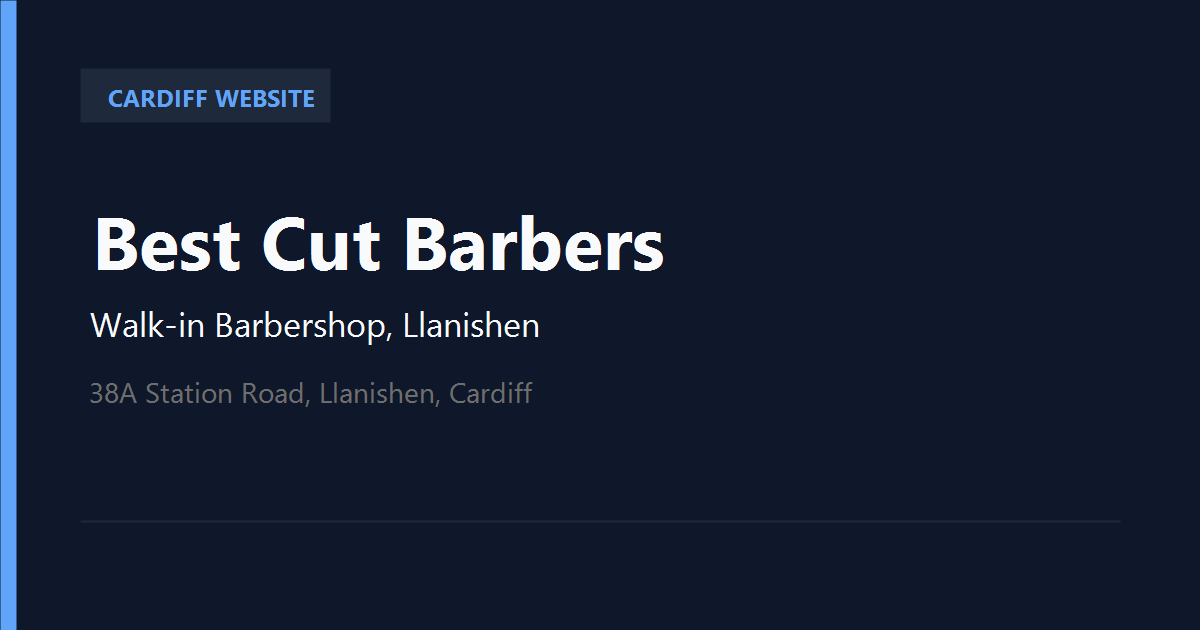
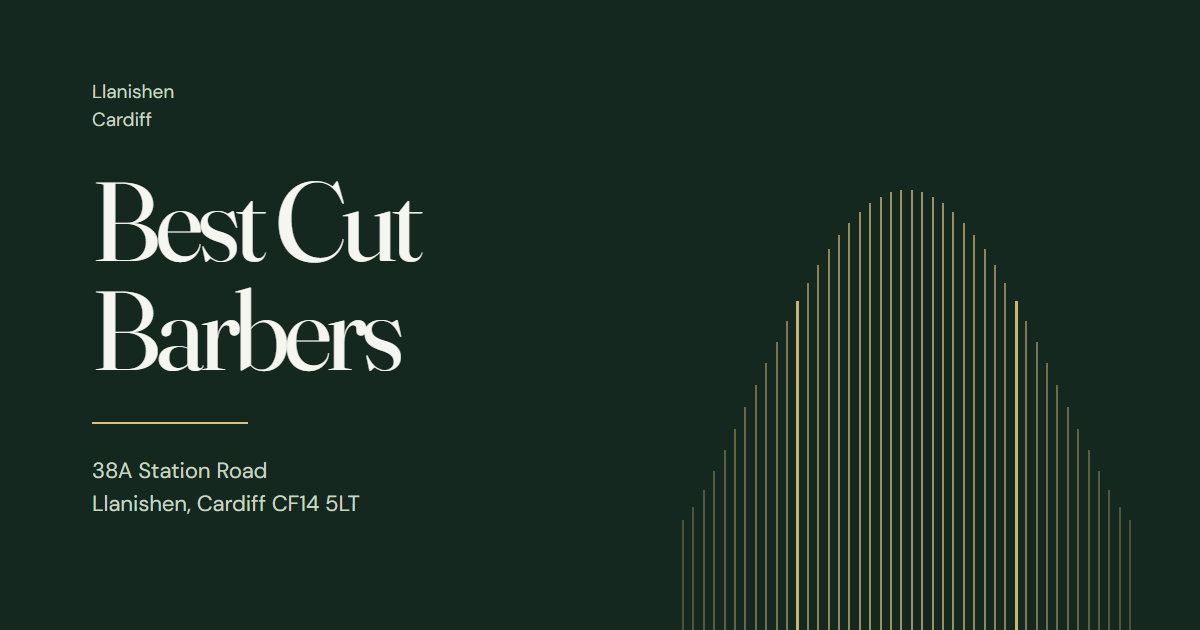
Harden CSP and structured data, refresh OG image
Aligns with security best practices: drops the unused data: image allowance, adds connect-src 'none', and links contactPoint to the real ContactPoint node. Two verifier guards prove each fix.

Also clips horizontal overflow, lets the display head wrap safely, and replaces the off-palette social image with a 1200x630 piece in the site's forest-green/brass identity (OG-DESIGN.md).

diff --git a/index.html b/index.html
@@ -1,5 +1,5 @@
-<!doctype html><html lang="en-GB"><head><meta charset="utf-8"><meta name="viewport" content="width=device-width,initial-scale=1"><meta http-equiv="Content-Security-Policy" content="default-src 'self'; script-src 'self'; style-src 'self'; img-src 'self' data:; base-uri 'none'; form-action 'none'; object-src 'none'"><title>Best Cut Barbers | Llanishen, Cardiff</title><meta name="description" content="Find Best Cut Barbers in Llanishen. Call about today’s availability, ask about your style, then head to Station Road."><meta name="theme-color" content="#f6f6f0">
-<link rel="manifest" href="site.webmanifest"><link rel="icon" href="favicon.svg" type="image/svg+xml"><link rel="canonical" href="https://henrygoldsmith07-wq.github.io/best-cut-barbers/"><meta property="og:type" content="website"><meta property="og:title" content="Best Cut Barbers"><meta property="og:description" content="Find Best Cut Barbers in Llanishen. Call about today’s availability, ask about your style, then head to Station Road."><meta property="og:url" content="https://henrygoldsmith07-wq.github.io/best-cut-barbers/"><meta property="og:image" content="https://henrygoldsmith07-wq.github.io/best-cut-barbers/og-image.png"><meta property="og:image:alt" content="Best Cut Barbers — 38A Station Road, Llanishen, Cardiff CF14 5LT"><meta name="twitter:card" content="summary_large_image"><script type="application/ld+json">{"@context":"https://schema.org","@type":"HairSalon","@id":"https://henrygoldsmith07-wq.github.io/best-cut-barbers/#business","name":"Best Cut Barbers","url":"https://henrygoldsmith07-wq.github.io/best-cut-barbers/","image":"https://henrygoldsmith07-wq.github.io/best-cut-barbers/og-image.png","telephone":"+447429478127","hasMap":"https://maps.google.com/?q=38A+Station+Road+Llanishen+Cardiff+CF14+5LT","areaServed":[{"@type":"Place","name":"Llanishen"},{"@type":"Place","name":"Cardiff"}],"address":{"@type":"PostalAddress","streetAddress":"38A Station Road","addressLocality":"Llanishen","addressRegion":"Cardiff","postalCode":"CF14 5LT","addressCountry":"GB"},"contactPoint":{"@id":"https://henrygoldsmith07-wq.github.io/best-cut-barbers/#business"},"hasOfferCatalog":{"@type":"OfferCatalog","name":"Barber services","itemListElement":[{"@type":"Offer","itemOffered":{"@type":"Service","name":"Haircut consultation"}},{"@type":"Offer","itemOffered":{"@type":"Service","name":"Beard grooming enquiry"}}]},"geo":{"@type":"GeoCoordinates","latitude":51.5290067,"longitude":-3.1883158},"openingHoursSpecification":[{"@type":"OpeningHoursSpecification","dayOfWeek":["Monday","Tuesday","Wednesday","Thursday","Friday","Saturday"],"opens":"09:00","closes":"18:00"},{"@type":"OpeningHoursSpecification","dayOfWeek":["Sunday"],"opens":"10:00","closes":"16:00"}]}</script><script src="app.js" defer></script><meta name="robots" content="noindex, nofollow"><script src="direction.js" defer></script><link rel="preload" href="assets/dm-sans.woff2" as="font" type="font/woff2" crossorigin>
+<!doctype html><html lang="en-GB"><head><meta charset="utf-8"><meta name="viewport" content="width=device-width,initial-scale=1"><meta http-equiv="Content-Security-Policy" content="default-src 'self'; script-src 'self'; style-src 'self'; img-src 'self'; connect-src 'none'; base-uri 'none'; form-action 'none'; object-src 'none'"><title>Best Cut Barbers | Llanishen, Cardiff</title><meta name="description" content="Find Best Cut Barbers in Llanishen. Call about today’s availability, ask about your style, then head to Station Road."><meta name="theme-color" content="#f6f6f0">
+<link rel="manifest" href="site.webmanifest"><link rel="icon" href="favicon.svg" type="image/svg+xml"><link rel="canonical" href="https://henrygoldsmith07-wq.github.io/best-cut-barbers/"><meta property="og:type" content="website"><meta property="og:title" content="Best Cut Barbers"><meta property="og:description" content="Find Best Cut Barbers in Llanishen. Call about today’s availability, ask about your style, then head to Station Road."><meta property="og:url" content="https://henrygoldsmith07-wq.github.io/best-cut-barbers/"><meta property="og:image" content="https://henrygoldsmith07-wq.github.io/best-cut-barbers/og-image.png"><meta property="og:image:alt" content="Best Cut Barbers — 38A Station Road, Llanishen, Cardiff CF14 5LT"><meta name="twitter:card" content="summary_large_image"><script type="application/ld+json">{"@context":"https://schema.org","@type":"HairSalon","@id":"https://henrygoldsmith07-wq.github.io/best-cut-barbers/#business","name":"Best Cut Barbers","url":"https://henrygoldsmith07-wq.github.io/best-cut-barbers/","image":"https://henrygoldsmith07-wq.github.io/best-cut-barbers/og-image.png","telephone":"+447429478127","hasMap":"https://maps.google.com/?q=38A+Station+Road+Llanishen+Cardiff+CF14+5LT","areaServed":[{"@type":"Place","name":"Llanishen"},{"@type":"Place","name":"Cardiff"}],"address":{"@type":"PostalAddress","streetAddress":"38A Station Road","addressLocality":"Llanishen","addressRegion":"Cardiff","postalCode":"CF14 5LT","addressCountry":"GB"},"contactPoint":{"@id":"https://henrygoldsmith07-wq.github.io/best-cut-barbers/#contact-point"},"hasOfferCatalog":{"@type":"OfferCatalog","name":"Barber services","itemListElement":[{"@type":"Offer","itemOffered":{"@type":"Service","name":"Haircut consultation"}},{"@type":"Offer","itemOffered":{"@type":"Service","name":"Beard grooming enquiry"}}]},"geo":{"@type":"GeoCoordinates","latitude":51.5290067,"longitude":-3.1883158},"openingHoursSpecification":[{"@type":"OpeningHoursSpecification","dayOfWeek":["Monday","Tuesday","Wednesday","Thursday","Friday","Saturday"],"opens":"09:00","closes":"18:00"},{"@type":"OpeningHoursSpecification","dayOfWeek":["Sunday"],"opens":"10:00","closes":"16:00"}]}</script><script src="app.js" defer></script><meta name="robots" content="noindex, nofollow"><script src="direction.js" defer></script><link rel="preload" href="assets/dm-sans.woff2" as="font" type="font/woff2" crossorigin>
 <link rel="preload" href="assets/fraunces.woff2" as="font" type="font/woff2" crossorigin><link rel="stylesheet" href="site.css"><script src="experience.js" defer></script><meta property="og:locale" content="en_GB">
 <meta property="og:site_name" content="Best Cut Barbers">
 <meta name="twitter:title" content="Best Cut Barbers | Llanishen, Cardiff">

diff --git a/finishing.css b/finishing.css
@@ -56,3 +56,5 @@ details p{line-height:1.8}.hint,.br-meta{font-size:14px;line-height:1.7}
 @media(prefers-reduced-motion:reduce){html{scroll-behavior:auto}*,*::before,*::after{animation:none!important;transition:none!important}}
 
 body{--paper:var(--base);--ink:var(--text);--muted:var(--secondary);--line:var(--rule)}body.studio{--accent:#3e5d4a;--paper:var(--base);--ink:var(--text);--muted:var(--secondary);--line:var(--rule)}header.top,.direction-hero{--text:inherit;--secondary:inherit;--accent:inherit;--rule:inherit;--base:inherit;--surface:inherit}.studio header.top{--accent:inherit}.top .nav-toggle{color:var(--text)!important;border-color:var(--secondary)}.mobile .button{background:var(--accent)!important}.mobile .button.secondary{background:transparent!important}.services li h3{grid-column:2;font-size:clamp(23px,2.2vw,32px);margin:0}.services li a{grid-column:3;margin-top:0}.services li::before{grid-column:1;grid-row:1}.services li a{grid-row:1}@media(max-width:800px){.services li h3{font-size:25px}.services li a{grid-column:2;grid-row:2}.services li{grid-template-rows:auto auto}.studio .top .brand{font-family:var(--body);font-size:24px;font-weight:500}}
+/* Hallmark floor 34/50: clip sideways scroll without creating a scroll container; let the display head wrap on long words. */
+html,body{overflow-x:clip}.direction-copy h1{min-width:0;overflow-wrap:break-word}

diff --git a/404.html b/404.html
@@ -3,7 +3,7 @@
 <head>
 <meta charset="utf-8">
 <meta name="viewport" content="width=device-width,initial-scale=1">
-<meta http-equiv="Content-Security-Policy" content="default-src 'self'; script-src 'self'; style-src 'self'; img-src 'self' data:; base-uri 'none'; form-action 'none'; object-src 'none'">
+<meta http-equiv="Content-Security-Policy" content="default-src 'self'; script-src 'self'; style-src 'self'; img-src 'self'; connect-src 'none'; base-uri 'none'; form-action 'none'; object-src 'none'">
 <meta name="robots" content="noindex">
 <meta name="theme-color" content="#f6f6f0">
 <title>Page not found | Best Cut Barbers</title>

diff --git a/OG-DESIGN.md b/OG-DESIGN.md
@@ -1,0 +1,15 @@
+# Brass Cadence
+
+A visual philosophy for a single, quiet frame.
+
+Space is the first material. A deep, near-black ground holds the composition together and gives every lighter mark a reason to exist. Nothing is centred by habit; the weight sits to one side, and the opposite side is left for a patient rhythm to unfold. The result should feel inevitable, as though a single decision were repeated until it became structure.
+
+Form comes from repetition with variation. A field of fine, upright strokes gathers at the edge of the frame, each one almost the same as its neighbour, each one answering a slow curve that runs beneath them. Read at a glance it is texture; read slowly it is a score. The spacing is regular enough to feel engineered and irregular enough to feel touched by hand. This is the product of painstaking attention, of countless small adjustments made by someone at the top of their craft.
+
+Colour is deliberately narrow. One dark ground, one warm paper tone for the few words that matter, and one brass note used sparingly for the lines that carry the rhythm. No gradient performs transitions, no halo announces importance. The brass is a material, not an accent: it catches light only where the composition asks it to. Every tone is chosen with the care of a master printer calibrating a final proof.
+
+Type is sparse and architectural. A large serif carries the name in two quiet lines, set at a weight that feels cut rather than typed. A smaller sans faces the essential location facts beneath a hairline rule. Nothing is shouted, nothing is tracked into decoration, and no word is italicised for emphasis. The words are anchors; the space around them does the communicating.
+
+Scale and rhythm do the remaining work. The title occupies roughly a third of the frame, the pattern another third, and the remaining third is held open so the eye can rest. The composition rewards sustained looking: the repeated strokes resolve into a single gesture only after a moment. It must feel meticulously crafted, laboured over with care, unmistakably the work of deep expertise — a small object that could be displayed without embarrassment.
+
+The quiet reference is a comb drawn across a curve: the teeth of a blade, the measured pass of a cut. It is never illustrated literally. Those who know the trade feel it in the cadence; everyone else simply sees a disciplined, beautifully made composition.

diff --git a/README.md b/README.md
@@ -71,3 +71,6 @@ The page was rendered in the in-app browser with its real CSS and JavaScript inj
 
 ## Parallel domain audits — 16 November 2026
 Four read-only audits (UI/design, security/privacy, accessibility/UX, cross-file consistency) found no remaining severe defects. Applied fixes: the mobile menu button now precedes the nav in the DOM so tab order matches its visual order; the validated form fields point at the error region with `aria-describedby`; the FAQ region label matches its visible heading; both Maps search links now carry the verified postcode; and the meta description apostrophes are consistent. New guards cover displayed phone numbers in text and JS, full address in Maps links, menu DOM order, theme colour coming from page tokens, and error descriptions. A false report that `og:locale` was missing was checked and rejected — the meta tag is present. Each new guard was proven to fail on a planted defect and restored. A final pass added guards for the main page language, the manifest link, `og:locale` and unique JSON-LD IDs — all documented claims that previously relied on inspection. All four planted defects failed their checks and were restored.
+
+## Four-skill improvement pass — 17 November 2026
+Applied `security-best-practices`, `frontend-design`, `canvas-design` and `Hallmark` inside the locked `DESIGN.md` system; Henry's earlier correction removed decorative effects, so none were reintroduced. Security: both pages now use `img-src 'self'` with no unused `data:` allowance and add `connect-src 'none'` — a scan found no data-URI assets and no network calls in the shipped code. The JSON-LD `contactPoint` now references the real `ContactPoint` node instead of looping back to the salon. Hallmark audit: added `overflow-x: clip` on `html` and `body` and safe wrapping/min-width for the display head. The remaining linter findings are literals in shared, unloaded multi-site rules and house-style items overridden by `DESIGN.md`, so they were recorded, not rewritten. Canvas design: `og-image.png` was replaced with a 1200×630 forest-green and brass composition using the site's local fonts; the design philosophy is in `OG-DESIGN.md`. `verify.mjs` gained guards for the tighter resource policy and the contact-point type. No business facts, dependencies or publish settings changed; no push or deploy.
